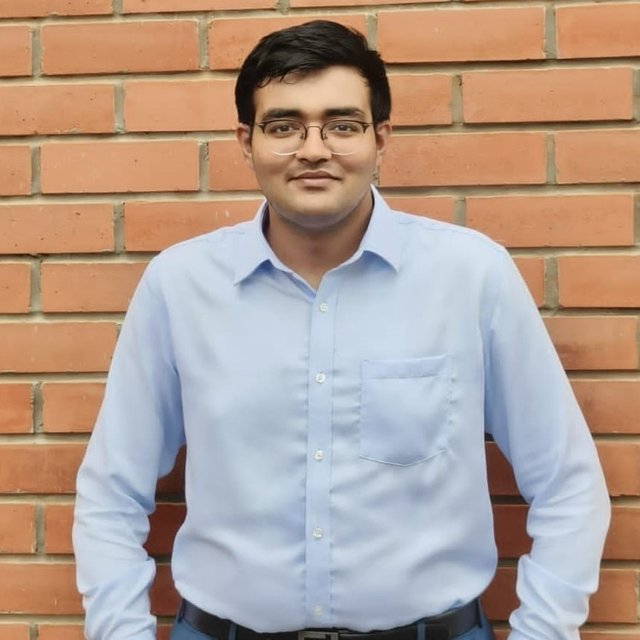
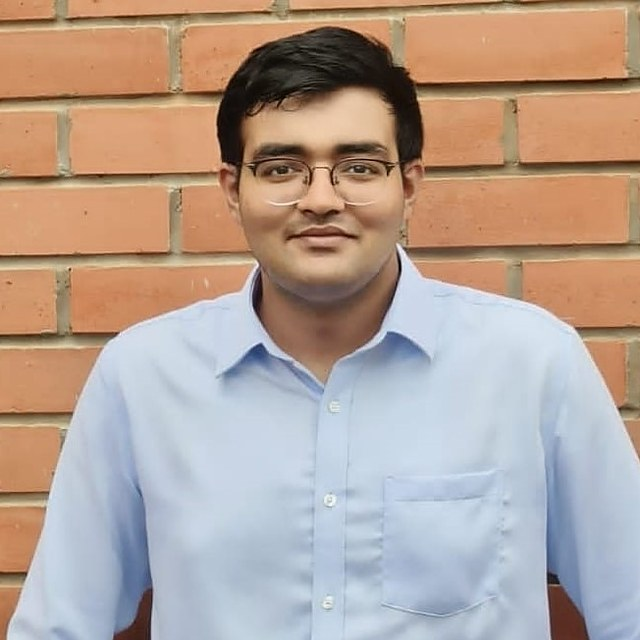
Profile crop, Student communities photos, two research-note drafts, HGP-NLP summary

diff --git a/src/lib/data.ts b/src/lib/data.ts
@@ -68,6 +68,7 @@ export const talks = load(
     upcoming: z.array(z.object({ name: z.string(), where: z.string(), when: z.string(), note: z.string() })).default([]),
     conferences: z.array(z.object({ name: z.string(), where: z.string(), note: z.string().optional() })),
     photos: z.array(photo),
+    community: z.array(photo).default([]),
     talks: z.array(z.object({ year: z.number(), items: z.array(dated) })),
     industry: z.array(dated),
   }),

diff --git a/HANDOFF.md b/HANDOFF.md
@@ -6,7 +6,7 @@ State as of 19 Oct 2026. Live at https://pratinavseth.github.io, built from `dev
 
 - The site is an **Astro 7 + TypeScript** rebuild of the old Jekyll site, live since 19 Oct 2026.
 - `astro` and `dev-stable` point at the same commit and are what is live. `dev-stable` is now the repository's **default branch** (changed 24 Nov 2026), so the daily Scholar crawler and site rebuild run. `main` is the stale February 2025 Jekyll version.
-- 24 Nov 2026: branch `polish-local` holds work that is **local only until the owner approves; do not push it without that.** It contains: the brick-wall headshot on the home page and share card; shorter paper `<title>` tags; a font preload (home layout shift on phone 0.23 to 0); smaller Talks photos; the Collaborators & mentees section restructured (stats strip, repeat co-authors, one-paper co-authors) with six more mentees tagged on the owner's say-so (Abhivansh Gupta, Areeb Ahmad, Aryan Sood, Deeraj S K, Ashim Dhor, Shreeyans Arora); a Speaking page (`/speaking/`: topics, bios, headshot download), a paper-notes feed (`/papers.xml`), schema.org Dataset markup for Alberta Wells and a software list on Experience, a Writing page with topic filters that now always shows in the menu, and two draft posts (`how-i-got-into-ai-safety`, `running-the-lexsi-hackathon`; facts only, with YOUR VOICE comments where the owner must add the why; both `draft: true`, so hidden in the live build and visible only in `astro dev`); an "In plain words" summary on 42 paper pages and a "Paper notes" feed on the Writing page, from `src/data/plain.yaml` (each restates only its abstract; the other 20 papers have no abstract on file, so no summary: add one only from the paper's own text); `llms.txt` with a current-role section and per-paper role labels; the draft post labelling under-review papers; arXiv ids for eight papers (CoReFusion, Orion-BiX, SafeTune, Provenance-Grounded Gating, LapGSR, SELF-PERCEPT, SSS at SemEval, RSM-NLP at BLP) with their abstracts; and a fix so `scripts/fetch-abstracts.mjs` no longer sends the owner's email address to arXiv. When the owner approves and it is pushed, change this bullet to say it is live.
+- 24 Nov 2026: branch `polish-local` holds work that is **local only until the owner approves; do not push it without that.** It contains: the brick-wall headshot on the home page and share card; shorter paper `<title>` tags; a font preload (home layout shift on phone 0.23 to 0); smaller Talks photos; the Collaborators & mentees section restructured (stats strip, repeat co-authors, one-paper co-authors) with six more mentees tagged on the owner's say-so (Abhivansh Gupta, Areeb Ahmad, Aryan Sood, Deeraj S K, Ashim Dhor, Shreeyans Arora); a Speaking page (`/speaking/`: topics, bios, headshot download), a paper-notes feed (`/papers.xml`), schema.org Dataset markup for Alberta Wells and a software list on Experience, a Writing page with topic filters that now always shows in the menu, a tighter head-and-shoulders crop of the brick-wall headshot as the profile photo (the blazer shot from AAAI 2023 is the alternative); a "Student communities" photo section on Talks (Research Society MIT Manipal and The Data Alchemists, plus two more AAAI and Bosch photos); and four draft posts (`how-i-got-into-ai-safety`, `running-the-lexsi-hackathon`, `do-compliance-checkers-read-the-rule`, `what-we-learned-about-tabular-foundation-models`; the last two are built only from paper abstracts with every number checked, the first two facts only, with YOUR VOICE comments where the owner must add the why; both `draft: true`, so hidden in the live build and visible only in `astro dev`); an "In plain words" summary on 42 paper pages and a "Paper notes" feed on the Writing page, from `src/data/plain.yaml` (each restates only its abstract; the other 20 papers have no abstract on file, so no summary: add one only from the paper's own text); `llms.txt` with a current-role section and per-paper role labels; the draft post labelling under-review papers; arXiv ids for eight papers (CoReFusion, Orion-BiX, SafeTune, Provenance-Grounded Gating, LapGSR, SELF-PERCEPT, SSS at SemEval, RSM-NLP at BLP) with their abstracts; and a fix so `scripts/fetch-abstracts.mjs` no longer sends the owner's email address to arXiv. When the owner approves and it is pushed, change this bullet to say it is live.
 - GitHub Pages source is **GitHub Actions** (`.github/workflows/deploy.yml`). Every push to `dev-stable` or `main` deploys in about 2 minutes.
 - Last full check (24 Nov 2026): 0 type errors, 69 pages built, 22 rendered checks clean, no layout overflow at 1366px or 390px, 0 axe (WCAG A/AA) violations, every meta description 160 characters or fewer.
 
@@ -63,7 +63,8 @@ The Overleaf CV project (`bib/*.bib`, `notes/papers-status.md`, `notes/website-u
 ## Open items
 
 1. **Papers without figures** (text tiles): the-off-switch-failure, document-as-function, brief, sailing-through-spectra, legalsearchgym, policy-grounded-insurance-agents, wording-risk-underwriting, evaluating-rule-adherence, directional-heterogeneity-multilingual-safety, mechanistic-flinch, three-steps-to-no. Needs the PDFs (none are on arXiv, and OpenReview blocks automation). Crop the main figure to `src/assets/images/<id>-fig.png` and set `image` and `imageAlt`. A figure-less paper can set `short:` for its tile label.
-2. **Draft posts** (`what-survives-post-training`, `how-i-got-into-ai-safety`, `running-the-lexsi-hackathon`) need the owner's voice before setting `draft: false`. The slides for the AI Safety India talk are promised by the owner: build a talk page and recap post from them (the decks listed in the media kit README are not readable from the assistant's account).
+   **Plain-words summaries still missing for 19 papers** that have no public abstract the assistant could read (CVF returned 403, AAAI is behind bot protection, OpenReview blocks automation): paste the abstracts and add entries to `src/data/plain.yaml`.
+2. **Draft posts** (`what-survives-post-training`, `how-i-got-into-ai-safety`, `running-the-lexsi-hackathon`, `do-compliance-checkers-read-the-rule`, `what-we-learned-about-tabular-foundation-models`) need the owner's voice before setting `draft: false`. The slides for the AI Safety India talk are promised by the owner: build a talk page and recap post from them (the decks listed in the media kit README are not readable from the assistant's account).
 3. **GoatCounter:** set `goatcounter` in `site.ts` once the owner signs up.
 4. **Paper coverage was checked on 24 Nov 2026** against alphaXiv (52 papers: 41 arXiv, 11 other) and Hugging Face (15): nothing is missing from the site. The eight arXiv ids above are not in the Overleaf `.bib` files yet, so add them at the next CV sync. arXiv's API rate-limits (HTTP 429); use the alphaXiv profile page instead.
 5. **Search consoles:** verify in Google Search Console, submit `sitemap-index.xml`. Bing was pinged through IndexNow on 24 Nov (key file `public/da6fc9e7656707d8213521d90c4cb207.txt`); Bing Webmaster Tools verification is still open. Older profiles (ResearchGate, Linktree, alphaXiv, Stackforce, Scholar affiliation) still show old numbers and titles.

diff --git a/src/content/posts/what-we-learned-about-tabular-foundation-models.md b/src/content/posts/what-we-learned-about-tabular-foundation-models.md
@@ -1,0 +1,43 @@
+---
+title: "What we learned about tabular foundation models"
+description: "Fine-tuning, ensembling, distillation and context building, studied across hundreds of datasets: where the gains are, and where they are not."
+date: 2026-11-24
+draft: true
+tags: [tabular foundation models, research notes]
+---
+
+<!-- DRAFT for Pratinav to edit. Every number below comes from the abstracts of the papers linked in the text. Add your own framing where marked YOUR VOICE, then set draft: false. Advice is limited to what the papers' own findings support. -->
+
+Tabular foundation models (TFMs) match or beat tuned gradient-boosted trees on a growing share of tabular tasks, without task-specific training. Over the last year our group studied what to do with them. The short version: the obvious levers help less than people expect, and a few unglamorous ones help more.
+
+<!-- YOUR VOICE: how you came to this line of work, and which result surprised you most. -->
+
+## The models and the library
+
+We built two models and a library for working with them. [Orion-MSP](/publications/orion-msp/) is a tabular in-context learning architecture designed to fix three limits of earlier models: single-scale feature processing, dense attention that grows quadratically with table width, and strictly sequential components. [Orion-BiX](/publications/orion-bix/) alternates standard, grouped, hierarchical and relational attention and is meta-trained on synthetic tables with causal priors. [TabTune](/publications/tabtune/) puts seven models behind one interface for zero-shot use, meta-learning, supervised fine-tuning and parameter-efficient tuning, and evaluates calibration and fairness as well as accuracy.
+
+## Fine-tuning is not a free win
+
+In [Exploring Fine-Tuning for Tabular Foundation Models](/publications/exploring-fine-tuning-for-tabular-foundation-models/), the first comprehensive study of the question, zero-shot TFMs were already strong, and the benefit of fine-tuning depended heavily on the model and the data. Meta-learning and parameter-efficient tuning gave moderate gains under specific conditions, while full supervised fine-tuning often reduced accuracy or calibration.
+
+## Ensembling barely helps
+
+The natural fix when no single model wins everywhere is to ensemble. In [Ensembling Tabular Foundation Models](/publications/ensembling-tabular-foundation-models/), six modern TFMs turned out to be nearly redundant, with a mean pairwise Q-statistic of 0.961. Across 153 OpenML classification tasks, the best ensemble gained 0.18% accuracy over the strongest single model, at 253 times the compute. Stacking with a logistic-regression meta-learner kept competitive accuracy and ROC-AUC but had the worst log-loss rank among the ensembles.
+
+## Distil it for production
+
+A fraud scorer may need an answer in under 2 ms; the best TFMs take 151 to 1,275 ms on GPU. [Pocket Foundation Models](/publications/pocket-foundation-models/) distils a TFM into an XGBoost or CatBoost student that runs on CPU. The obstacle specific to in-context models is that they leak labels when scoring their own training set, which collapses the soft targets; stratified out-of-fold labeling prevents it. Across 153 datasets, distilling TabICLv2 into XGBoost reached 0.882 macro-mean AUC, 96.5% of the teacher's, at 1.9 ms on CPU.
+
+For health data, [Distilling Tabular Foundation Models for Structured Health Data](/publications/distilling-tfms-structured-health-data/) found across 19 datasets that students kept at least 90% of the teacher's AUC while running at least 26 times faster on CPU, preserving the calibration and fairness health applications need. Averaging several teachers did not consistently beat the best single teacher.
+
+## How you build the context matters more than the model
+
+In credit-default prediction, a TFM's predictions depend on how its context window is built. [Data Presentation over Architecture](/publications/data-presentation-over-architecture/) benchmarked four classical models and five TFMs on Home Credit and Lending Club. The context strategy explained more variance in AUC-ROC than the choice of TFM family: balanced and hybrid sampling added 3 to 4 AUC points over uniform sampling, more than the gap between models. With a balanced context of 5K to 10K examples, the strongest TFMs reached the AUC of classical baselines trained on the full data.
+
+## What it adds up to
+
+On these benchmarks, the order of effort that paid off was: check zero-shot first, spend effort on how the context is built, distil for deployment, and be sceptical of ensembles and full fine-tuning.
+
+<!-- YOUR VOICE: where you disagree, what these studies did not cover, and what you would test next. -->
+
+Venues: the ensembling and Pocket Foundation Models papers appeared at the Foundation Models for Structured Data workshop at ICML 2026; the health-data paper was a spotlight at the SD4H workshop at ICML 2026, where it received a Best Paper Runner-Up; the credit-risk paper was an oral at the FinDS workshop at ACM SIGMOD 2026; Orion-BiX, the fine-tuning study and TabTune appeared at WWW 2026.

diff --git a/src/content/posts/do-compliance-checkers-read-the-rule.md b/src/content/posts/do-compliance-checkers-read-the-rule.md
@@ -1,0 +1,39 @@
+---
+title: "Do compliance checkers read the rule?"
+description: "Three audits of LLM compliance systems point to the same finding: the verdict often does not depend on the rule it is supposed to enforce."
+date: 2026-11-24
+draft: true
+tags: [compliance, evaluation, research notes]
+---
+
+<!-- DRAFT for Pratinav to edit. Every claim and number below comes from the abstracts of the three papers linked in the text. Add your own framing where marked YOUR VOICE, then set draft: false. -->
+
+A compliance checker is meant to answer one question: does this output follow this written rule? That is only a meaningful answer if the verdict depends on the rule. Three papers from our group tested that directly, and found that it often does not.
+
+<!-- YOUR VOICE: why you started looking at this, and where you have seen these systems used. -->
+
+## The test: change the rule, hold the case fixed
+
+All three audits use the same idea. Keep the case the same and change the governing rule: delete it, permute it, swap it for an unrelated or a permissive one, or negate it. If a system really reads the rule, its verdict should move.
+
+## Detectors that ignore the rule
+
+[*What Do Compliance Detectors Read?*](/publications/what-do-compliance-detectors-read/) audits activation probes and guard models, checking outputs against rules spanning data protection, healthcare, financial regulation and platform policy. For every guard and probe tested, deleting, permuting or substituting the rule left detection accuracy unchanged. That includes a policy-conditioned guard that correctly cites the governing clause yet barely changes its verdict when the clause is swapped for its permissive counterpart. We call this *rule blindness*, and built a benchmark that crosses two rules with two scenarios so that neither alone predicts the label.
+
+## Verdicts that do not move
+
+[*Verdict Without the Rule*](/publications/verdict-without-the-rule/) runs the same kind of test across five models and 20 regulatory and platform-policy domains. Models' verdicts are often invariant to substantial changes to the supplied rule. The guard model was the least rule-sensitive and the least accurate of the five, at 51%, barely above chance, against 90 to 92% for the general-purpose models.
+
+The paper is careful about what this means. It reflects easy cases more than blanket neglect: on cases where deleting the rule changes a previously correct model prediction, models do track the rule closely.
+
+## Citing the law is not the same as using it
+
+[*Cited but Not Consulted*](/publications/cited-but-not-consulted/) asks the question for legal reasoning. Models often justify a decision by naming the statute or precedent behind it. Holding the case facts fixed and substituting an unrelated authority, we decoded the model's evolving verdict from its hidden states. Across seven open-weight models (8B to 70B) and four benchmarks, models named the correct authority in 66.7% to 100% of generations, while the verdict changed when the authority changed only 0.0% to 21.7% of the time on CaseHOLD, 30.0% to 76.7% on ECHR and SCOTUS, and 43.3% to 50.0% on ContractNLI. Neither scale nor a purpose-built legal-reasoning model closed the gap.
+
+## What to take from it
+
+If you deploy or buy a compliance system, the cheapest useful test is the one these papers use: hold the case fixed, change the rule, and see whether the verdict moves. A system that cites the right clause is not evidence that it used the clause.
+
+<!-- YOUR VOICE: one or two sentences on what you would want a regulator, auditor or product team to do differently. -->
+
+The three papers are [What Do Compliance Detectors Read?](/publications/what-do-compliance-detectors-read/) (TAE Workshop, NeurIPS 2026), [Verdict Without the Rule](/publications/verdict-without-the-rule/) (NLLP Workshop, EMNLP 2026) and [Cited but Not Consulted](/publications/cited-but-not-consulted/) (NLLP Workshop, EMNLP 2026 and TAE Workshop, NeurIPS 2026). A fourth, [Evaluating Rule Adherence in Language Model Compliance Detection](/publications/evaluating-rule-adherence/), is under review.
